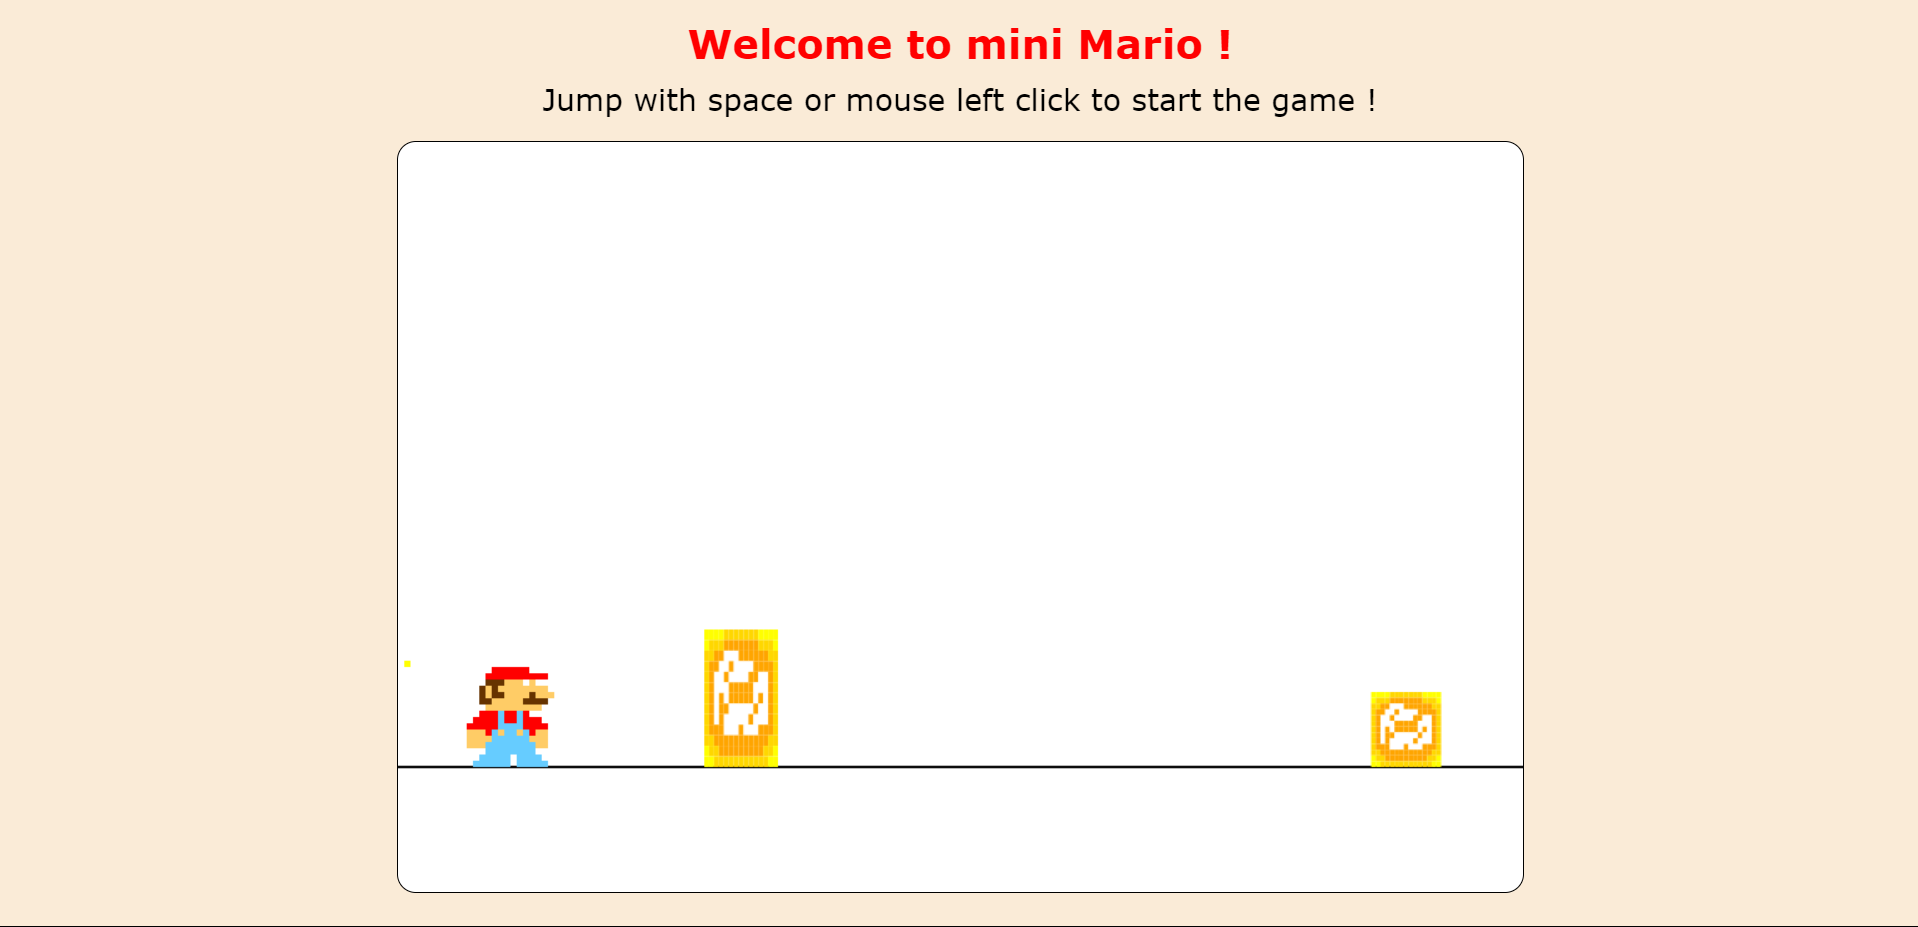
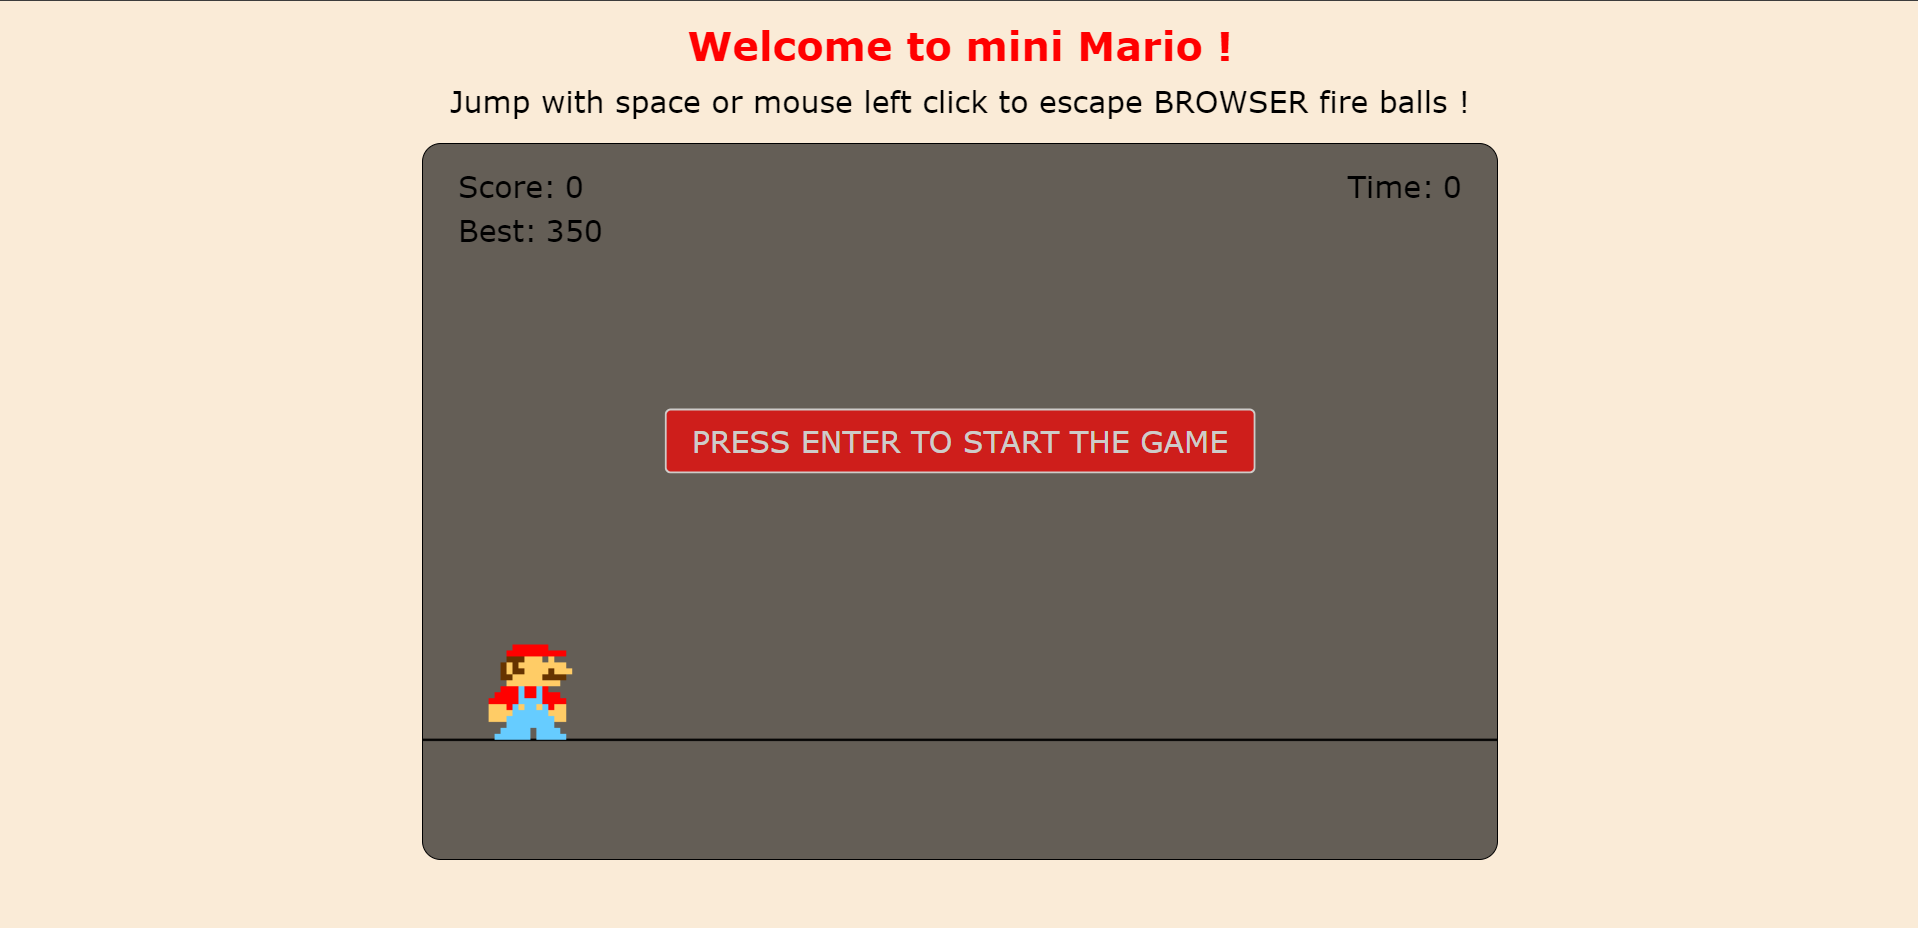
updated screen shot

diff --git a/README.md b/README.md
@@ -1,5 +1,4 @@
 # Mini Marion Canvas Game
-
 Welcome to the Mini Marion Canvas Game! This is a simple game built using HTML5 canvas and JavaScript. 
 
 ## Deployment
@@ -11,7 +10,7 @@ You can play the game online by visiting the [deployment link](https://bahaa-edd
 1. Clone or download the repository to your local machine.
 2. Open the `index.html` file in your web browser.
 3. Use the arrow keys to control the Marion character.
-4. Avoid the obstacles and try to collect as many points as possible.
+4. Avoid the BROWSER enemy's fireballs and try to collect as many points as possible.
 5. Enjoy the game!
 
 ## Technologies Used
@@ -23,3 +22,4 @@ You can play the game online by visiting the [deployment link](https://bahaa-edd
 ## Screenshots
 
 ![Gameplay Screenshot](./images/game.png)
+
